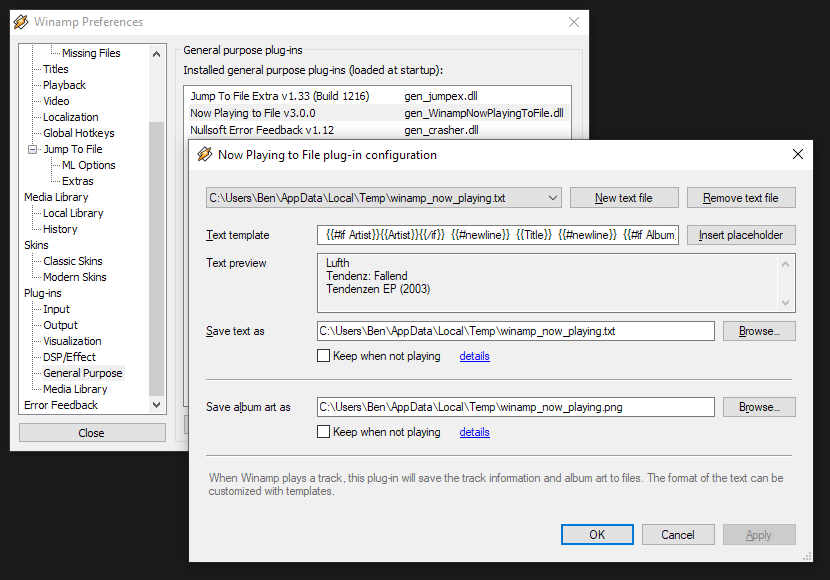
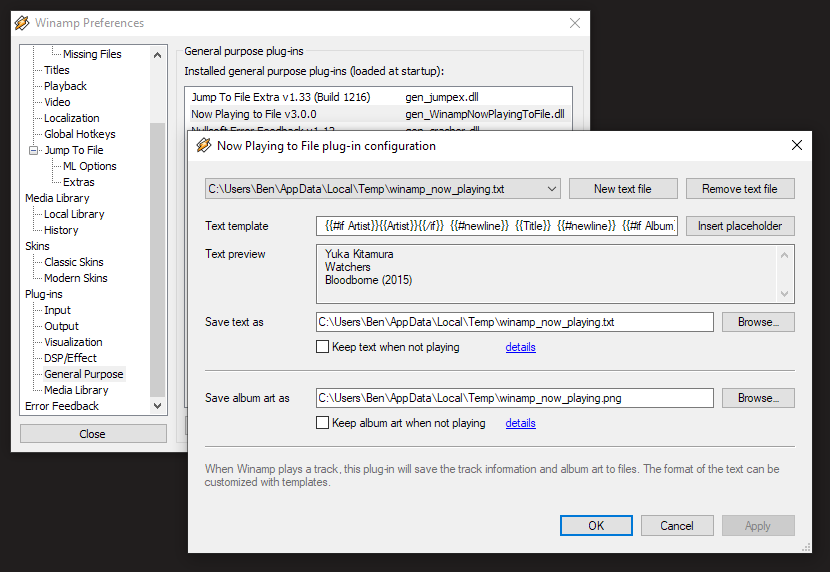
Updated documentation and help text

diff --git a/WinampNowPlayingToFile/Presentation/SettingsDialog.Designer.cs b/WinampNowPlayingToFile/Presentation/SettingsDialog.Designer.cs
@@ -1,4 +1,4 @@
-namespace WinampNowPlayingToFile.Presentation
+namespace WinampNowPlayingToFile.Presentation
 {
     partial class SettingsDialog
     {
@@ -88,8 +88,8 @@
             this.toolStripSeparator1 = new System.Windows.Forms.ToolStripSeparator();
             this.ifToolStripMenuItem = new System.Windows.Forms.ToolStripMenuItem();
             this.ifElseToolStripMenuItem = new System.Windows.Forms.ToolStripMenuItem();
-            this.newLineToolStripMenuItem = new System.Windows.Forms.ToolStripMenuItem();
             this.jsonObjectToolStripMenuItem = new System.Windows.Forms.ToolStripMenuItem();
+            this.newLineToolStripMenuItem = new System.Windows.Forms.ToolStripMenuItem();
             this.toolStripSeparator2 = new System.Windows.Forms.ToolStripSeparator();
             this.helpToolStripMenuItem = new System.Windows.Forms.ToolStripMenuItem();
             this.explanationLabel = new System.Windows.Forms.Label();
@@ -159,6 +159,7 @@
             albumToolStripMenuItem.ShowShortcutKeys = false;
             albumToolStripMenuItem.Size = new System.Drawing.Size(250, 22);
             albumToolStripMenuItem.Text = "Album";
+            albumToolStripMenuItem.ToolTipText = "Album name";
             // 
             // artistToolStripMenuItem
             // 
@@ -166,6 +167,7 @@
             artistToolStripMenuItem.ShowShortcutKeys = false;
             artistToolStripMenuItem.Size = new System.Drawing.Size(250, 22);
             artistToolStripMenuItem.Text = "Artist";
+            artistToolStripMenuItem.ToolTipText = "Artist name";
             // 
             // titleToolStripMenuItem
             // 
@@ -173,6 +175,7 @@
             titleToolStripMenuItem.ShowShortcutKeys = false;
             titleToolStripMenuItem.Size = new System.Drawing.Size(250, 22);
             titleToolStripMenuItem.Text = "Title";
+            titleToolStripMenuItem.ToolTipText = "Song name";
             // 
             // yearToolStripMenuItem
             // 
@@ -180,6 +183,7 @@
             yearToolStripMenuItem.ShowShortcutKeys = false;
             yearToolStripMenuItem.Size = new System.Drawing.Size(250, 22);
             yearToolStripMenuItem.Text = "Year";
+            yearToolStripMenuItem.ToolTipText = "Album release date, in whatever format it\'s stored in the song metadata";
             // 
             // albumArtistToolStripMenuItem
             // 
@@ -466,7 +470,7 @@
             absolutePathToolStripMenuItem.Size = new System.Drawing.Size(247, 22);
             absolutePathToolStripMenuItem.Tag = "Filename";
             absolutePathToolStripMenuItem.Text = "Absolute path";
-            absolutePathToolStripMenuItem.ToolTipText = "Directory and filename, e.g. \"C:\\Users\\Ben\\Music\\\r\nSong.mp3\"";
+            absolutePathToolStripMenuItem.ToolTipText = "Directory and filename, e.g. \"C:\\Users\\Ben\\Music\\Song.mp3\"";
             // 
             // directoryToolStripMenuItem
             // 
@@ -633,7 +637,7 @@
             this.insertTemplatePlaceholderMenu.Name = "insertTemplatePlaceholderMenu";
             this.insertTemplatePlaceholderMenu.RenderMode = System.Windows.Forms.ToolStripRenderMode.System;
             this.insertTemplatePlaceholderMenu.ShowImageMargin = false;
-            this.insertTemplatePlaceholderMenu.Size = new System.Drawing.Size(251, 280);
+            this.insertTemplatePlaceholderMenu.Size = new System.Drawing.Size(251, 302);
             this.insertTemplatePlaceholderMenu.ItemClicked += new System.Windows.Forms.ToolStripItemClickedEventHandler(this.onTemplateMenuSelection);
             // 
             // toolStripSeparator1
@@ -653,19 +657,19 @@
             this.ifElseToolStripMenuItem.Size = new System.Drawing.Size(250, 22);
             this.ifElseToolStripMenuItem.Text = "if-else";
             // 
-            // newLineToolStripMenuItem
-            // 
-            this.newLineToolStripMenuItem.Name = "newLineToolStripMenuItem";
-            this.newLineToolStripMenuItem.Size = new System.Drawing.Size(250, 22);
-            this.newLineToolStripMenuItem.Text = "New line";
-            // 
             // jsonObjectToolStripMenuItem
             // 
             this.jsonObjectToolStripMenuItem.Name = "jsonObjectToolStripMenuItem";
             this.jsonObjectToolStripMenuItem.Size = new System.Drawing.Size(250, 22);
             this.jsonObjectToolStripMenuItem.Text = "JSON object (replaces entire template)";
-            this.jsonObjectToolStripMenuItem.ToolTipText = "Replace the entire template with a JSON object containing a customizable projecti" +
-    "on of metadata fields";
+            this.jsonObjectToolStripMenuItem.ToolTipText = resources.GetString("jsonObjectToolStripMenuItem.ToolTipText");
+            // 
+            // newLineToolStripMenuItem
+            // 
+            this.newLineToolStripMenuItem.Name = "newLineToolStripMenuItem";
+            this.newLineToolStripMenuItem.Size = new System.Drawing.Size(250, 22);
+            this.newLineToolStripMenuItem.Text = "New line";
+            this.newLineToolStripMenuItem.ToolTipText = "A line break (CRLF)";
             // 
             // toolStripSeparator2
             // 
@@ -677,6 +681,7 @@
             this.helpToolStripMenuItem.Name = "helpToolStripMenuItem";
             this.helpToolStripMenuItem.Size = new System.Drawing.Size(250, 22);
             this.helpToolStripMenuItem.Text = "Help";
+            this.helpToolStripMenuItem.ToolTipText = "Open documentation webpage for mustache-sharp";
             // 
             // explanationLabel
             // 
@@ -729,7 +734,7 @@
             this.albumArtBrowseButton.Name = "albumArtBrowseButton";
             this.albumArtBrowseButton.Size = new System.Drawing.Size(75, 22);
             this.albumArtBrowseButton.TabIndex = 16;
-            this.albumArtBrowseButton.Text = "B&rowse…";
+            this.albumArtBrowseButton.Text = "Br&owse…";
             this.albumArtBrowseButton.UseVisualStyleBackColor = true;
             this.albumArtBrowseButton.Click += new System.EventHandler(this.onAlbumArtBrowseButtonClick);
             // 
@@ -756,9 +761,9 @@
             this.preserveAlbumArtWhenNotPlaying.AutoSize = true;
             this.preserveAlbumArtWhenNotPlaying.Location = new System.Drawing.Point(128, 254);
             this.preserveAlbumArtWhenNotPlaying.Name = "preserveAlbumArtWhenNotPlaying";
-            this.preserveAlbumArtWhenNotPlaying.Size = new System.Drawing.Size(134, 17);
+            this.preserveAlbumArtWhenNotPlaying.Size = new System.Drawing.Size(180, 17);
             this.preserveAlbumArtWhenNotPlaying.TabIndex = 17;
-            this.preserveAlbumArtWhenNotPlaying.Text = "Keep when not playing";
+            this.preserveAlbumArtWhenNotPlaying.Text = "Keep album art when not playing";
             this.preserveAlbumArtWhenNotPlaying.UseVisualStyleBackColor = true;
             // 
             // textFileMenu
@@ -801,9 +806,9 @@
             this.preserveTextFileWhenNotPlaying.AutoSize = true;
             this.preserveTextFileWhenNotPlaying.Location = new System.Drawing.Point(128, 178);
             this.preserveTextFileWhenNotPlaying.Name = "preserveTextFileWhenNotPlaying";
-            this.preserveTextFileWhenNotPlaying.Size = new System.Drawing.Size(134, 17);
+            this.preserveTextFileWhenNotPlaying.Size = new System.Drawing.Size(154, 17);
             this.preserveTextFileWhenNotPlaying.TabIndex = 11;
-            this.preserveTextFileWhenNotPlaying.Text = "Keep when not playing";
+            this.preserveTextFileWhenNotPlaying.Text = "Keep text when not playing";
             this.preserveTextFileWhenNotPlaying.UseVisualStyleBackColor = true;
             this.preserveTextFileWhenNotPlaying.CheckedChanged += new System.EventHandler(this.onCheckboxChange);
             // 
@@ -821,7 +826,7 @@
             // 
             this.preserveTextFileDetailsLink.Anchor = ((System.Windows.Forms.AnchorStyles)((System.Windows.Forms.AnchorStyles.Bottom | System.Windows.Forms.AnchorStyles.Left)));
             this.preserveTextFileDetailsLink.AutoSize = true;
-            this.preserveTextFileDetailsLink.Location = new System.Drawing.Point(268, 179);
+            this.preserveTextFileDetailsLink.Location = new System.Drawing.Point(315, 179);
             this.preserveTextFileDetailsLink.Name = "preserveTextFileDetailsLink";
             this.preserveTextFileDetailsLink.Size = new System.Drawing.Size(37, 13);
             this.preserveTextFileDetailsLink.TabIndex = 12;
@@ -833,7 +838,7 @@
             // 
             this.preserveAlbumArtDetailsLink.Anchor = ((System.Windows.Forms.AnchorStyles)((System.Windows.Forms.AnchorStyles.Bottom | System.Windows.Forms.AnchorStyles.Left)));
             this.preserveAlbumArtDetailsLink.AutoSize = true;
-            this.preserveAlbumArtDetailsLink.Location = new System.Drawing.Point(268, 255);
+            this.preserveAlbumArtDetailsLink.Location = new System.Drawing.Point(315, 255);
             this.preserveAlbumArtDetailsLink.Name = "preserveAlbumArtDetailsLink";
             this.preserveAlbumArtDetailsLink.Size = new System.Drawing.Size(37, 13);
             this.preserveAlbumArtDetailsLink.TabIndex = 18;
@@ -876,7 +881,6 @@
             this.MaximizeBox = false;
             this.MinimizeBox = false;
             this.Name = "SettingsDialog";
-            this.Text = "Now Playing to File plug-in configuration";
             this.TopMost = true;
             this.Load += new System.EventHandler(this.onSettingsDialogLoad);
             this.insertTemplatePlaceholderMenu.ResumeLayout(false);

diff --git a/WinampNowPlayingToFile/Presentation/SettingsDialog.cs b/WinampNowPlayingToFile/Presentation/SettingsDialog.cs
@@ -1,4 +1,4 @@
-#nullable enable
+#nullable enable
 
 using System;
 using System.Collections.Generic;
@@ -76,6 +76,8 @@ public partial class SettingsDialog: Form {
         workingSettings.load(upstreamSettings);
         InitializeComponent();
 
+        // ReSharper disable once VirtualMemberCallInConstructor - works great
+        Text = $"{NowPlayingToFilePlugin.NAME_WITHOUT_VERSION} plug-in configuration";
         // Make buttons have animated state transitions, like every other program in the OS
         // https://stackoverflow.com/q/53456865/979493
         foreach (ButtonBase flatStylableControl in Controls.OfType<ButtonBase>()) {
@@ -262,18 +264,18 @@ public partial class SettingsDialog: Form {
         When unchecked, the text file will be truncated to 0 bytes when Winamp isn't playing.
 
         When checked, the text file will preserve the rendered template text from the track that was most recently played.
-        """, "Now Playing to File", MessageBoxButtons.OK, MessageBoxIcon.Information);
+        """, $"{preserveTextFileWhenNotPlaying.Text} - {NowPlayingToFilePlugin.NAME_WITHOUT_VERSION}", MessageBoxButtons.OK, MessageBoxIcon.Information);
 
     private void onClickPreserveAlbumArtDetailsLink(object sender, LinkLabelLinkClickedEventArgs e) => MessageBox.Show(this,
         $"""
          This checkbox lets you control the album art file when Winamp is paused, stopped, or exited.
 
-         When unchecked, the image file will be replaced with a copy of "{Path.GetFullPath("stoppedAlbumArt.png")}" when Winamp isn't playing, or a black 1×1px PNG if that optional custom file doesn't exist.
+         When unchecked, the image file will be replaced with a copy of "{Path.GetFullPath("stoppedAlbumArt.png")}" when Winamp isn't playing, or it will be deleted if that optional custom file doesn't exist.
 
          When checked, the image file will preserve the album art from the track that was most recently played.
 
          Separately, you may also supply a fallback image to use when the current track doesn't have album art by saving an image to "{Path.GetFullPath("emptyAlbumArt.png")}".
-         """, "Now Playing to File", MessageBoxButtons.OK, MessageBoxIcon.Information);
+         """, $"{preserveAlbumArtWhenNotPlaying.Text} - {NowPlayingToFilePlugin.NAME_WITHOUT_VERSION}", MessageBoxButtons.OK, MessageBoxIcon.Information);
 
     private void onClickOk(object sender, EventArgs args) {
         try {

diff --git a/WinampNowPlayingToFile/NowPlayingToFilePlugin.cs b/WinampNowPlayingToFile/NowPlayingToFilePlugin.cs
@@ -1,4 +1,4 @@
-#nullable enable
+#nullable enable
 
 using Daniel15.Sharpamp;
 using System;
@@ -13,7 +13,9 @@ namespace WinampNowPlayingToFile;
 
 public class NowPlayingToFilePlugin: GeneralPlugin {
 
-    public override string Name => $"Now Playing to File v{Assembly.GetAssembly(typeof(NowPlayingToFilePlugin)).GetName().Version.ToString(3)}";
+    public const string NAME_WITHOUT_VERSION = "Now Playing to File";
+
+    public override string Name => $"{NAME_WITHOUT_VERSION} v{Assembly.GetAssembly(typeof(NowPlayingToFilePlugin)).GetName().Version.ToString(3)}";
 
     internal ISettings settings = new RegistrySettings();
 
@@ -35,7 +37,7 @@ public class NowPlayingToFilePlugin: GeneralPlugin {
     }
 
     internal void initManager() {
-        manager!.error += (_, e) => MessageBox.Show($"{e.Message}\nSong filename: {e.song?.Filename}\nStacktrace: {e.InnerException!.StackTrace}", "Now Playing To File error",
+        manager!.error += (_, e) => MessageBox.Show($"{e.Message}\nSong filename: {e.song?.Filename}\nStacktrace: {e.InnerException!.StackTrace}", $"{NAME_WITHOUT_VERSION} error",
             MessageBoxButtons.OK, MessageBoxIcon.Error);
     }
 

diff --git a/Readme.md b/Readme.md
@@ -80,7 +80,7 @@ To customize the text file location and contents, go to the plugin preferences i
 1. As you fill in the template, the **Text preview** will be updated to show how the currently playing song would be rendered, or an example song if no song is available.
 1. You can change where the file is written in your filesystem by selecting a different path for **Save text as**.
 
-When Winamp is not playing a song, this text file will be truncated to 0 bytes.
+When Winamp is not playing a song &mdash; for example, when it is paused, stopped, or you exit Winamp &mdash; this text file will be truncated to 0 bytes. To override this behavior and preserve the text from the most recently played track, check the "Keep text when not playing" checkbox in the configuration dialog box. This will make the text file remain unchanged when, for example, you press the Stop button.
 
 #### Placeholder fields
 
@@ -146,13 +146,14 @@ You can also render strings depending on a boolean value.
 {{#if Lossless}}lossless{{#else}}lossy{{/if}}
 ```
 
-There is also a custom helper for JSON value serialization, in case you're trying to generate a JSON file. Pass a space-delimited list of the field names to include in the object. When used, this helper must be the only text in the template, or it won't render.
+There is also a custom helper for JSON object serialization, in case you're trying to generate structured text that can be easily parsed by another program. Pass a space-delimited list of the field names to include in the object. When used, this helper must be the only text in the template, or it won't render.
 ```handlebars
 {{#json artist title album}}
 ```
 ```json
 { "artist": "U2", "title": "Exit", "album": "The Joshua Tree" }
 ```
+
 #### Formatting
 
 Metadata values may optionally be formatted using the [.NET string formatting syntax](https://learn.microsoft.com/en-us/dotnet/api/system.string.format?view=netframework-4.7.2&redirectedfrom=MSDN#remarks).
@@ -170,23 +171,26 @@ Metadata values may optionally be formatted using the [.NET string formatting sy
 
 This plugin also copies the currently playing song's album art from the song metadata or from an image in the song's folder. By default, it is copied to `%TEMP%\winamp_now_playing.png`.
 
-Note that the file extension is always the one you specify in the preferences, even if the album art has a different file type, to make it easier to refer to this file from other programs like OBS without having to deal with multiple possible file extensions. This means that this file may be created as a JPEG with the `.png` file extension, for example. Most programs, including OBS, can handle this case just fine, but the mismatch is a little silly. Feel free to change the file extension using the preferences.
-
 You can customize the album art filename and path using **Save album art as** in the same plugin configuration dialog as the text file above.
+
+Note that the file extension is always the one you specify in the preferences, even if the album art has a different file type, to make it easier to refer to this file from other programs like OBS without having to deal with multiple possible file extensions. This means that this file may be created as a JPEG with the `.png` file extension, for example. Most programs, including OBS, can handle this case just fine, but the mismatch is a little silly. Feel free to change the file extension using the preferences.
 
 #### Fallback artwork
 
 When there is no album art, the copied files will be deleted. However, this may be undesirable because it can leave dependent interfaces in a weird-looking state (like an OBS layout with a big transparent gap where the album art would normally be), and it will also trigger the Missing Files warning dialog box each time you launch OBS.
 
-To resolve this, you can specify custom image files that will be copied instead when there is no album art. Here are some sample [black](https://placehold.co/128x128/000f/0000.png) and [transparent](https://placehold.co/128x128/0000/0000.png) images to get started, or you can use your own. There are no requirements for the format or dimensions of these images besides what your downstream consumer like OBS accepts.
+To resolve this, you can specify custom image files that will be copied instead when there is no album art. See the following subsections for instructions on how to supply these files. Here are some sample [black](https://placehold.co/128x128/000f/0000.png) and [transparent](https://placehold.co/128x128/0000/0000.png) images to get started, or you can use your own. There are no requirements for the format or dimensions of these images besides what your downstream consumer like OBS accepts.
 
 ##### Missing artwork
 
-When Winamp is playing a song with no album art, the image file will be deleted. To override this, save your desired image file as `emptyAlbumArt.png` in the Winamp installation directory.
+When Winamp plays a song with no album art, the image file will be deleted. To override this, save your desired image file as `emptyAlbumArt.png` in the Winamp installation directory.
 
 ##### Playback stopped
 
-When Winamp is paused, stopped, or closed, the image file will be deleted. To override this, save your desired image file as `stoppedAlbumArt.png` in the Winamp installation directory.
+When Winamp is paused, stopped, or closed, the image file will be deleted. You have two ways to override this.
+
+- To show a custom image, save your desired image file as `stoppedAlbumArt.png` in the Winamp installation directory.
+- To preserve the album art from the most recently played song, check the "Keep album art when not playing" checkbox in the configuration dialog box.
 
 ## Integration
 
